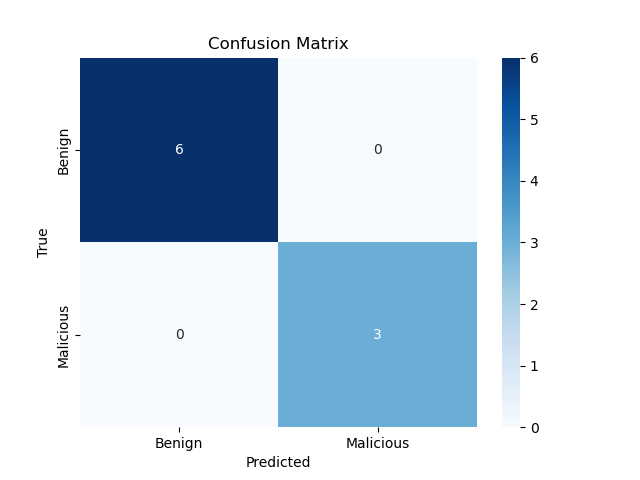
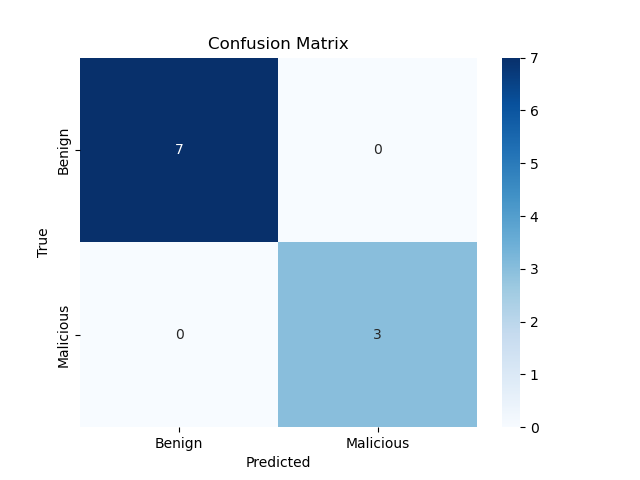
New Model needs more validation

diff --git a/config.py b/config.py
@@ -4,7 +4,7 @@ class Config:
     FEATURES_CSV = "/home/martin/TFG/Forensic-Analysis-of-Network-Attacks-using-Graph-Based-Modeling/CSVs/NUSW-NB15_features.csv"
 
     # Data Processing
-    SAMPLE_SIZE = 10000  # Reduced from 30000
+    SAMPLE_SIZE = 40000  # Reduced from 30000
     MAX_FEATURES = 20  # Reduced from 50
     RANDOM_STATE = 42
 
@@ -23,14 +23,14 @@ class Config:
     HEADS = 2
     GAT_LAYERS = 1
     WEIGHT_DECAY = 5e-4
-    MIN_DELTA = 0.005
+    MIN_DELTA = 0.001
 
     # Training
     EPOCHS = 30
     LEARNING_RATE = 0.001
     TEST_RATIO = 0.2
-    VAL_RATIO = 0.1
-    PATIENCE = 10
+    VAL_RATIO = 0.2
+    PATIENCE = 30
     CLASS_WEIGHTS = [1.0, 10.0]  # Moderate class weighting
 
     # Label Configuration (NEW)
